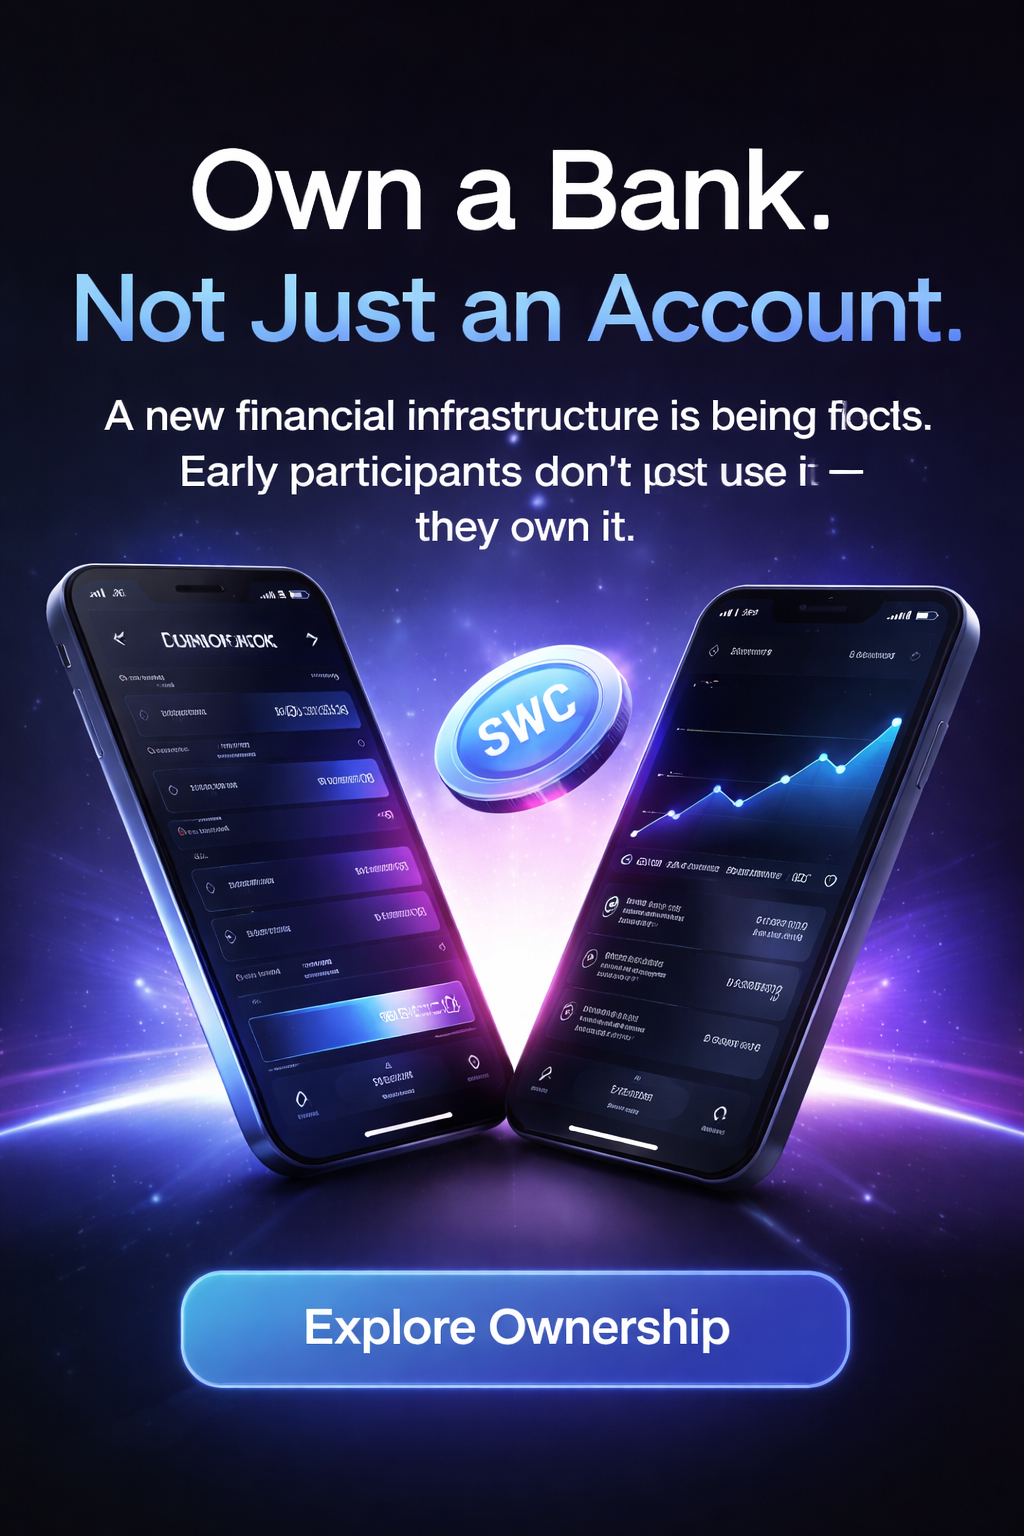
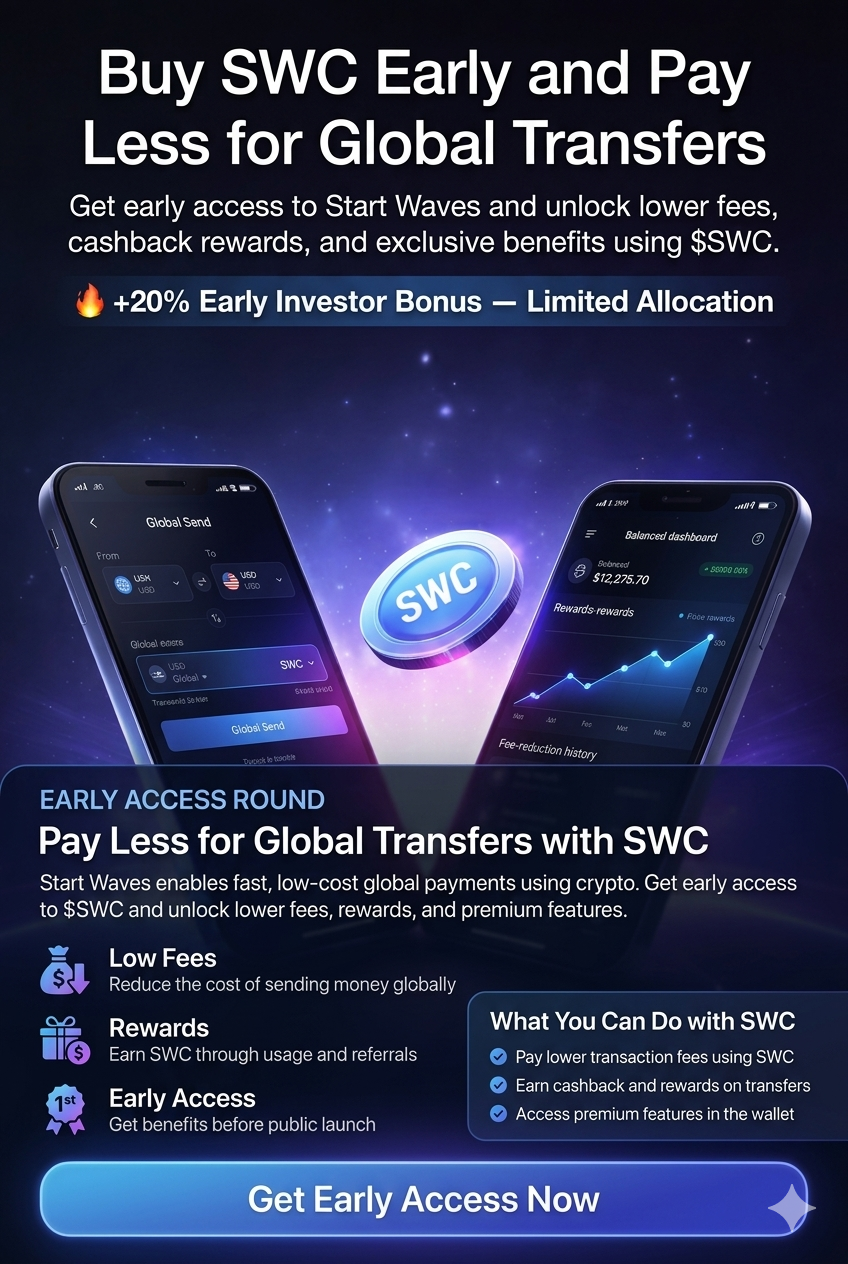
Subida ajustes cambio imagen popup funding mod-1

diff --git a/index-en.html b/index-en.html
@@ -604,7 +604,7 @@
     <script src="js/main.js"></script>
 
 
-        <!-- STARTWAVES FUNDING POPUP -->
+        <!-- STARTWAVES FUNDING POPUP V2 -->
 <div id="fundingPopup" style="
   position: fixed;
   inset: 0;

diff --git a/index.html b/index.html
@@ -649,7 +649,7 @@
     <script src="js/main.js"></script>
 
 
-    <!-- STARTWAVES FUNDING POPUP -->
+    <!-- STARTWAVES FUNDING POPUP V2 -->
 <div id="fundingPopup" style="
   position: fixed;
   inset: 0;
